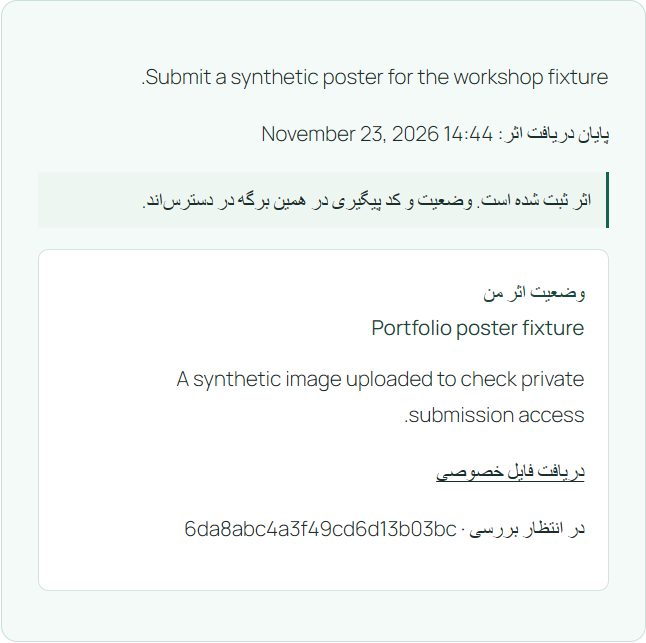
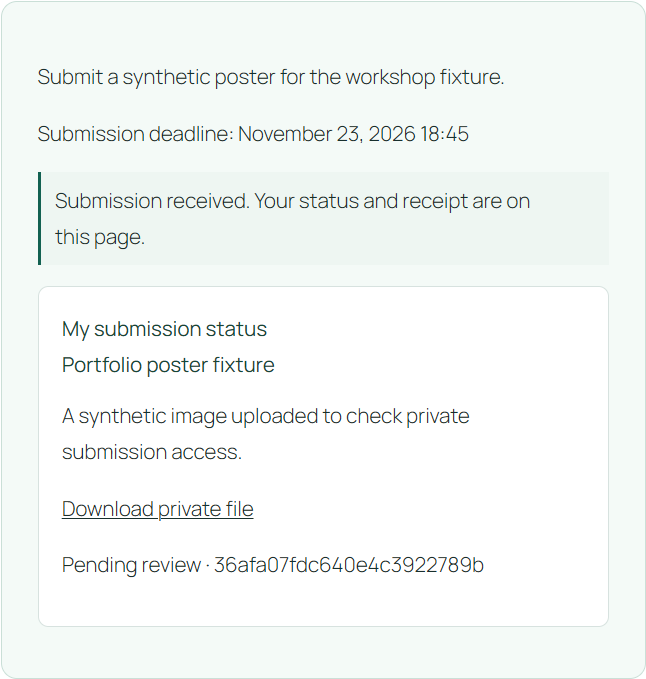
Use English screenshots and verify the portfolio evidence (#1)

diff --git a/README.md b/README.md
@@ -4,7 +4,7 @@ Participants submit entries for review. The file stays in private storage, and t
 
 ![Role checks for a synthetic private entry, including a reviewer whose assignment was removed](docs/preview.png)
 
-![The participant's private entry and authorized download link on a local WordPress test site](docs/participant-view.png)
+![The English participant view showing a pending private entry and the owner's download link](docs/participant-view.png)
 
 The sample uses the storage class and download access methods from Chaleshino Call Review. The test checks policy decisions with synthetic WordPress identities. The full plugin handles the upload and checks access before it serves the saved file.
 
